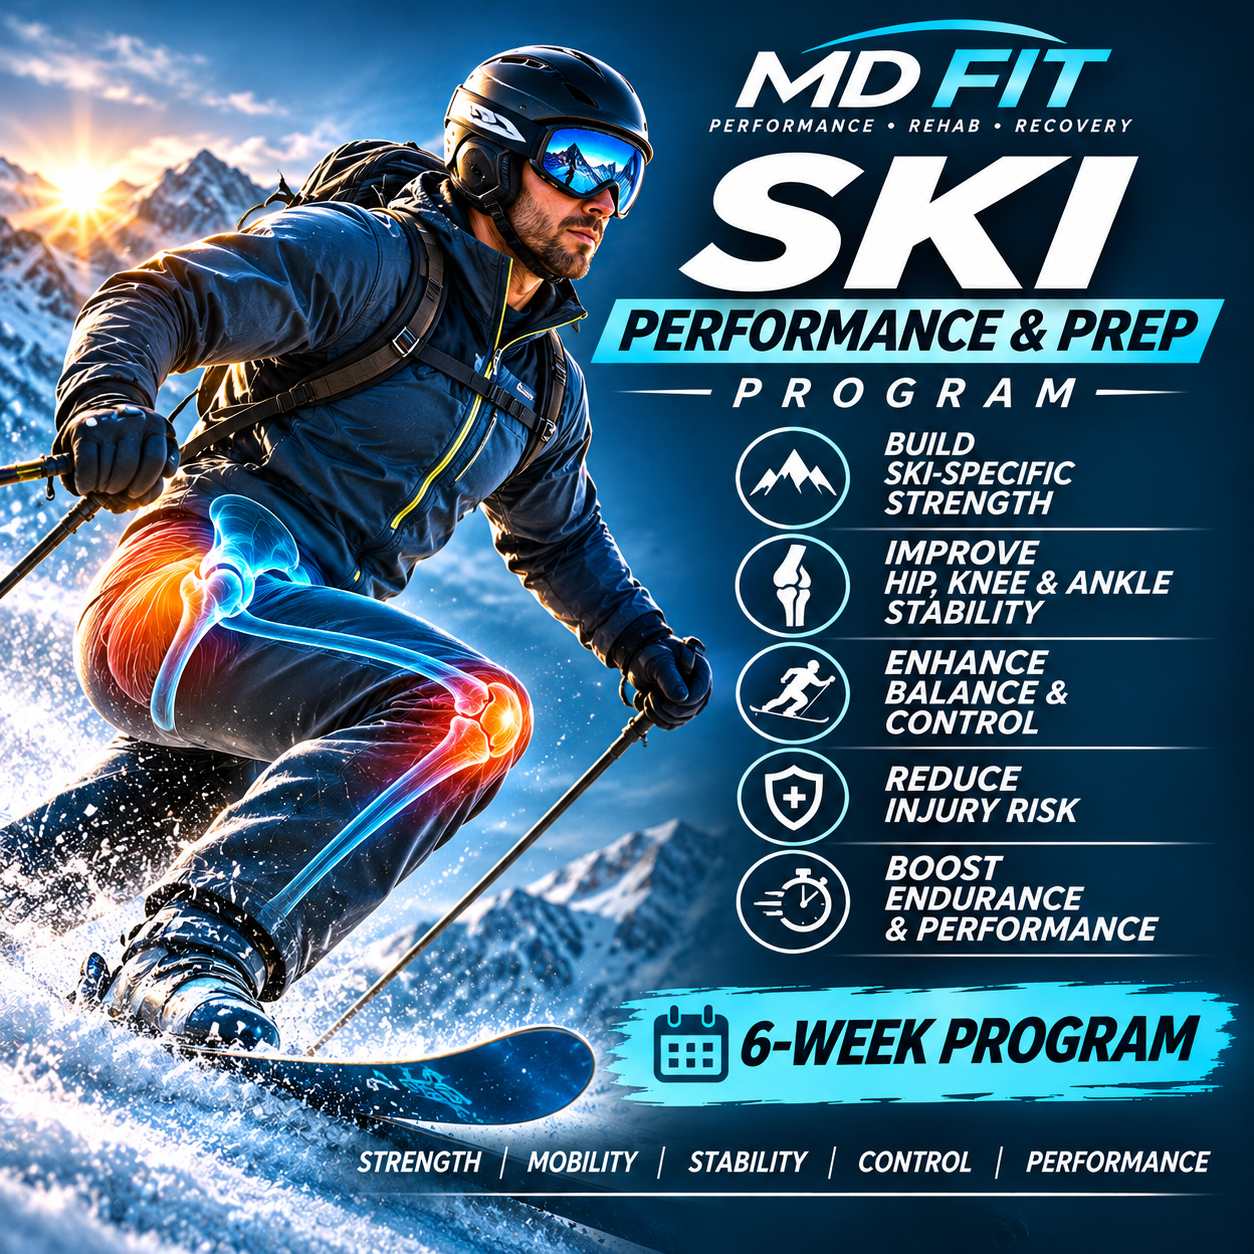
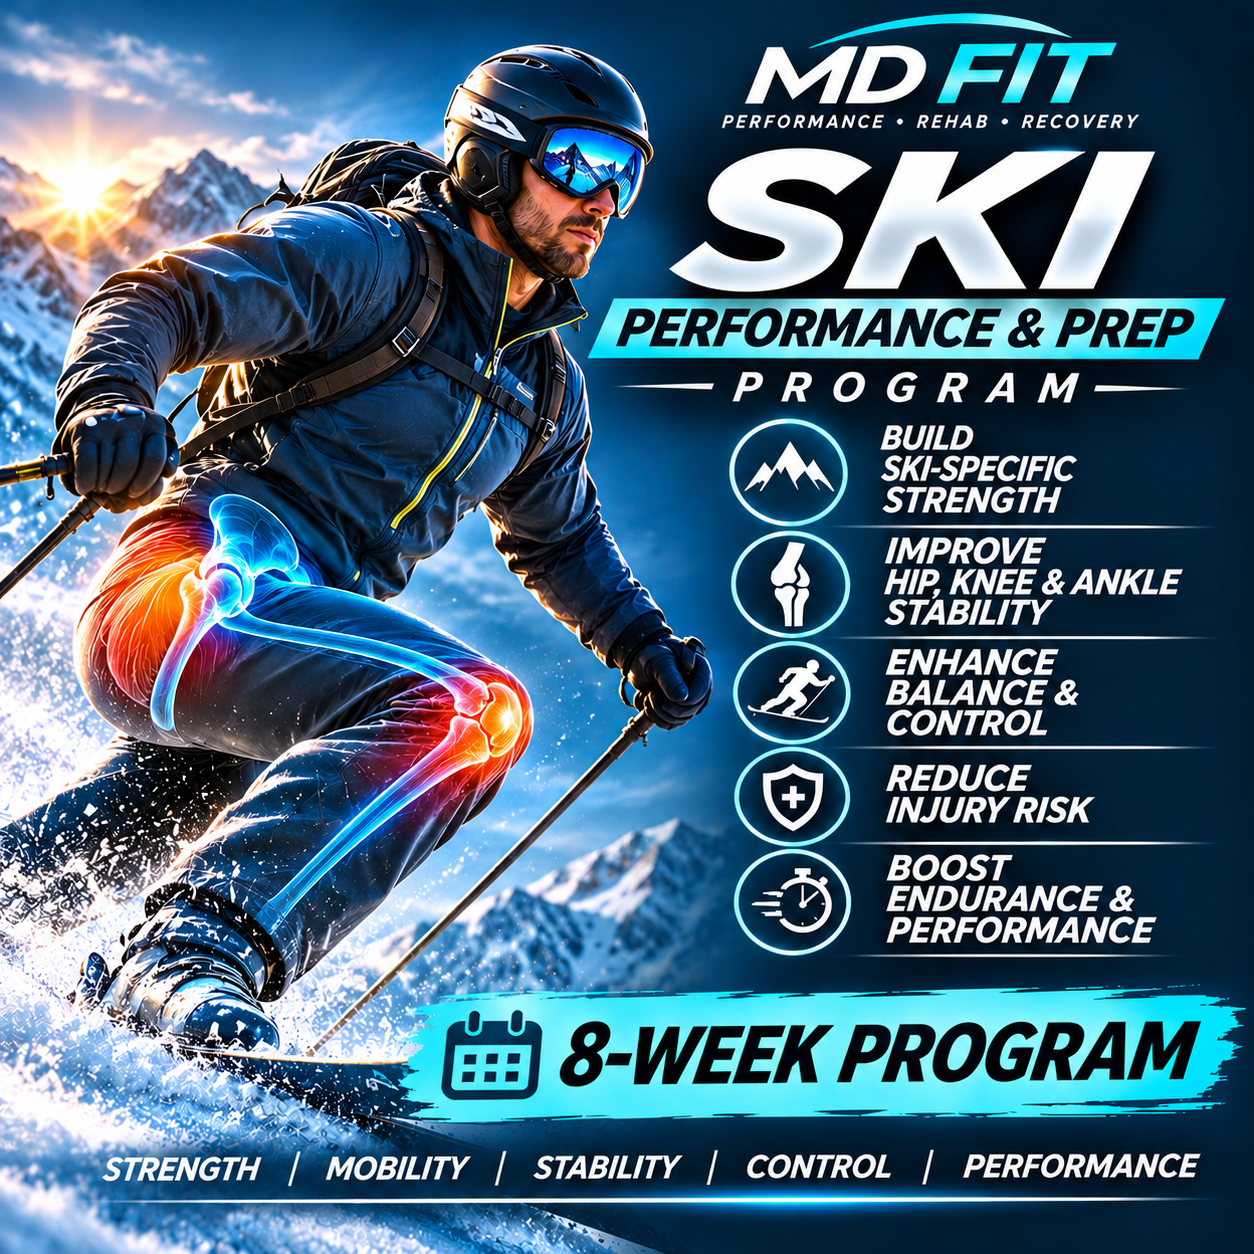
Profile: daily XP goal setting up top; gem and level names; 8-week ski poster
- "My daily XP goal" card is the first card on the Profile: Beginner 50, Advanced 75,
  Elite 100+ (the same picker as Home, kept in sync).
- Gem names per the owner: Amber (was Garnet) and Amethyst (was Onyx).
- Ski poster replaced with the 8-week version.

Claude-Session: https://claude.ai/code/session_012YgKLqCT1xMDwTTyUjBGfJ

diff --git a/account-habits.js b/account-habits.js
@@ -38,8 +38,9 @@
     const doneN = manual.filter((h) => h.done).length;
     $("#hb-sub", card).textContent = `${doneN} of ${manual.length} done · +${d.points} XP today`;
     document.dispatchEvent(new CustomEvent("mdfit:habits", { detail: d }));
+    renderProfileGoal();
     $(".hb-body", card).innerHTML = `
-      ${d.goalLevels ? `<div class="hb-norm" role="radiogroup" aria-label="My daily XP goal">${Object.entries(d.goalLevels).map(([k, v]) => `<button type="button" role="radio" data-goal-level="${k}" aria-checked="${d.goalLevel === k}">${k === "pro" ? "Pro / Elite" : k[0].toUpperCase() + k.slice(1)} <small>${v} XP</small></button>`).join("")}</div>` : ""}
+      ${d.goalLevels ? `<div class="hb-norm" role="radiogroup" aria-label="My daily XP goal">${goalButtons(d)}</div>` : ""}
       <div class="hb-sumrow"><p class="hb-today"><b>+${d.points}</b> XP from activities today</p><p class="hb-meta">${d.qualifying ? `<b class="hb-ok">Goal met (${d.goal} XP).</b>` : `${d.remaining} XP to today's goal of ${d.goal}`} · ${streakTxt}</p></div>
       <div class="hb-list">${shown.map(item).join("")}</div>
       ${short ? `<button type="button" class="link-sm hb-more" data-hb-all>Show all ${manual.length} activities</button>` : ""}
@@ -53,6 +54,20 @@
       <span class="hb-pts">+${h.points}</span></button>`;
   }
 
+  // Daily XP goal levels (owner's names): Beginner 50, Advanced 75, Elite 100+. Stored ids stay beginner/intermediate/pro.
+  const GOAL_NAMES = { beginner: "Beginner", intermediate: "Advanced", pro: "Elite" };
+  const goalButtons = (d) => Object.entries(d.goalLevels).map(([k, v]) => `<button type="button" role="radio" data-goal-level="${k}" aria-checked="${d.goalLevel === k}">${GOAL_NAMES[k] || k} <small>${v}${k === "pro" ? "+" : ""} XP</small></button>`).join("");
+  // The same picker sits at the top of the Profile, where members expect to find a setting
+  const profileGoal = $("#p-goal");
+  function renderProfileGoal() {
+    if (!profileGoal || !data || !data.goalLevels) return;
+    profileGoal.innerHTML = goalButtons(data);
+    $("#p-goal-now").textContent = `Today: ${data.total || data.points || 0} of ${data.goal} XP${data.qualifying ? " · goal met" : ""}.`;
+  }
+  if (profileGoal) profileGoal.addEventListener("click", async (e) => {
+    const gl = e.target.closest("[data-goal-level]"); if (!gl || gl.getAttribute("aria-checked") === "true") return;
+    try { data = await apiAuth("PUT", "/api/me/habits/goal", { level: gl.dataset.goalLevel }); render(); toast(`Daily goal: ${data.goal} XP.`); } catch (err) { toast(err.message); }
+  });
   async function load() {
     try { data = await apiAuth("GET", "/api/me/habits/today"); render(); }
     catch (e) { $(".hb-body", card).innerHTML = `<p class="muted">Couldn't load today's activities. <button type="button" class="link-sm" id="hb-retry">Try again</button></p>`; }
@@ -62,7 +77,7 @@
     if (e.target.closest(".hb-toggle")) { setOpen(!open); return; }
     if (e.target.id === "hb-retry") return load();
     if (e.target.closest("[data-hb-all]")) { showAll = true; render(); return; }
-    // Daily XP norm: Beginner 50 / Intermediate 75 / Pro 100 (applies from today)
+    // Daily XP norm: Beginner 50 / Advanced 75 / Elite 100 (applies from today)
     const gl = e.target.closest("[data-goal-level]");
     if (gl) {
       if (gl.getAttribute("aria-checked") === "true") return;

diff --git a/account.html b/account.html
@@ -20,7 +20,7 @@
   <link rel="preconnect" href="https://fonts.gstatic.com" crossorigin>
   <link href="https://fonts.googleapis.com/css2?family=Libre+Baskerville:wght@400;700&family=Montserrat:wght@400;500;600;700;800&display=swap" rel="stylesheet">
   <link rel="stylesheet" href="app/app.css?v=3fd2c90e">
-  <link rel="stylesheet" href="account.css?v=617e5802">
+  <link rel="stylesheet" href="account.css?v=3edf13e1">
   <link rel="stylesheet" href="guides.css?v=0a19199b">
 </head>
 <body class="mdapp">
@@ -458,6 +458,13 @@
       </div>
 
       <div class="profile-grid">
+      <div class="card" id="p-goal-card">
+        <div class="card-head"><span class="label">My daily XP goal</span></div>
+        <p class="muted small">How much XP counts as a full day for you. Reach it to keep your streak and paint the day gold on your calendar. A change applies from today.</p>
+        <div class="hb-norm p-goal" id="p-goal" role="radiogroup" aria-label="My daily XP goal"></div>
+        <p class="muted small" id="p-goal-now"></p>
+      </div>
+
       <div class="card list-card">
         <div class="card-head"><span class="label">My appointments</span><button type="button" class="btn-blue sm" id="p-book-open">Book an evaluation</button></div>
         <ul class="events" id="p-appts"></ul>
@@ -708,7 +715,7 @@
   <script src="stripe-checkout.js?v=087989ec"></script>
   <script src="account.js?v=7e28927d"></script>
   <script src="account-xp.js?v=69db22b4"></script>
-  <script src="account-habits.js?v=4d76cde1"></script>
+  <script src="account-habits.js?v=294905ab"></script>
 <script defer src="/_vercel/insights/script.js"></script>
 </body>
 </html>

diff --git a/sw.js b/sw.js
@@ -1,5 +1,5 @@
 // Minimal service worker so MD Fit installs as an app. Caches the app shell; API calls always go to the network.
-const CACHE = "mdfit-c8e933cff2";
+const CACHE = "mdfit-6e7736b481";
 const SHELL = ["/account","/nozoom.js","/app/app.css","/account.css","/guides.css","/config.js","/analytics.js","/realtime.js","/common.js","/search.js","/app/exercises.js","/app/library.js","/app/generator.js","/painmuscles.js","/painpatterns.js","/paintracks.js","/painmap.js","/musclereports.js","/guides.js","/stripe-checkout.js","/account.js","/account-xp.js","/account-habits.js","/assets/logo.webp"];
 
 self.addEventListener("install", (e) => {

diff --git a/login.html b/login.html
@@ -14,7 +14,7 @@
   <link rel="preconnect" href="https://fonts.gstatic.com" crossorigin>
   <link href="https://fonts.googleapis.com/css2?family=Libre+Baskerville:ital,wght@0,400;0,700;1,400&family=Montserrat:wght@400;500;600;700;800&display=swap" rel="stylesheet">
   <link rel="stylesheet" href="styles.css?v=c75279d6">
-  <link rel="stylesheet" href="account.css?v=617e5802">
+  <link rel="stylesheet" href="account.css?v=3edf13e1">
   <script src="https://accounts.google.com/gsi/client" async defer></script>
   <link rel="stylesheet" href="/site-header.css?v=cb0c2bf1">
   <script src="/site-header.js?v=9d8f5351" defer></script>

diff --git a/account.css b/account.css
@@ -541,3 +541,8 @@
 .hbc-under { margin-top: 10px; }
 .hbc-under .hbc-sum { margin: 0 0 6px; }
 .hbc-key .k { width: 12px !important; height: 12px !important; min-width: 0; flex: 0 0 12px; padding: 0; }
+
+/* Profile: daily XP goal picker (same buttons as Home, a little taller so it reads as a setting) */
+#p-goal-card .p-goal { margin: 10px 0 8px; }
+#p-goal-card .p-goal button { min-height: 56px; font-size: 14px; }
+#p-goal-card .p-goal button small { font-size: 12px; }

diff --git a/docs/HANDOFF.md b/docs/HANDOFF.md
@@ -615,7 +615,7 @@ File per collection `DATA_DIR/<name>.json`. All lists are full-file read/modify/
 - `XP.workout`: normal 30, custom 35, challenge 30, program 50. **Only the day's most valuable workout earns base XP**; others 0 (still count for badges/streaks). `challengeDone` +10 (once per challenge, once/day), `challengeSent` +5 (once/day). `pain` 5 (first 3 logs/day). `visit` 50 (appointment `status:"completed"` matched by email). `badge` 25 per badge. `checkin` 5 per vitals reading, max 2/day (10).
 - `ACTIONS` (via `POST /api/me/xp`, per-day caps, same `ref` once/day): video 2×10, lecture 10×3, message 3×3, reaction 1×3, favorite 2×5, program 5×3, generate 2×3, share 5×1, booking 15×2 (server-derived from non-cancelled appointments, not postable), profile 5×1. Server stores up to `cap*3` entries/day.
 - `DAILY_GOAL = 30` (rewards card). Workout kinds decided by `classifyWorkout` (`lib/custom-workouts.js`): key `custom-<id>` on own account → custom; `challenge-<id>` sent to this member → challenge (marks done); `track-*`/`painproto-*` → program; `prog-<programId>-…` matching a content program → program; else normal.
-- `GEMS` (level = index+1): Peridot 0, Garnet 51, Onyx 501, Emerald 2,501, Ruby 7,501, Sapphire 15,001, Diamond 30,001, Platinum 60,001 (owner's ladder, Nov 7 2026).
+- `GEMS` (level = index+1): Peridot 0, Amber 51, Amethyst 501, Emerald 2,501, Ruby 7,501, Sapphire 15,001, Diamond 30,001, Platinum 60,001 (owner's ladder, Nov 7 2026).
 - `BADGES` (14): first-workout 1, workouts-10/50/100, streak-3/7/30, week-3, hours-10 (600 min), explorer (5 goals), checkin-7, pain-5, pain-down (drop ≥3), first-visit.
 - Streak repairs (rewards view, `repairsFrom`): 1 token per completed 3-consecutive-workout-day block; `POST /api/me/repair-streak` records date in `repairsUsed`.
 
